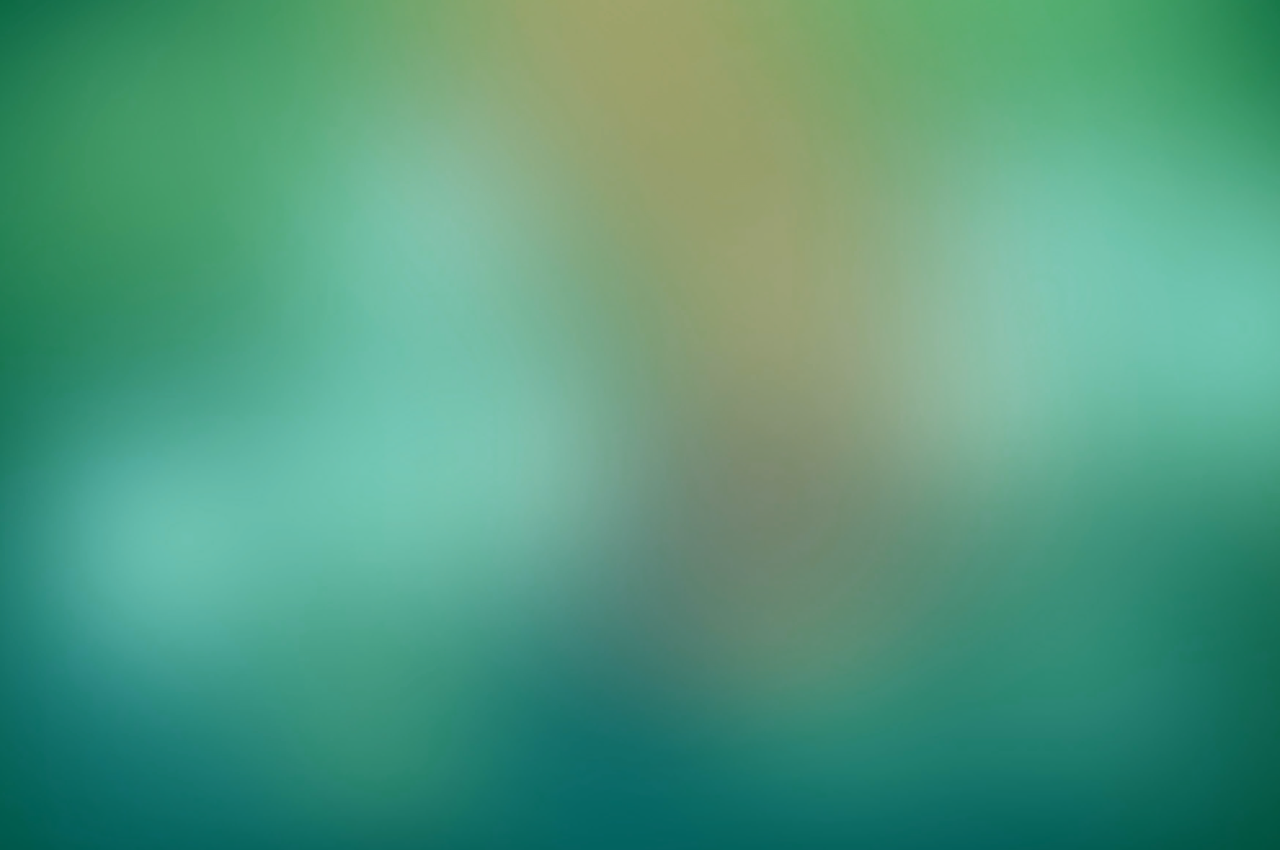
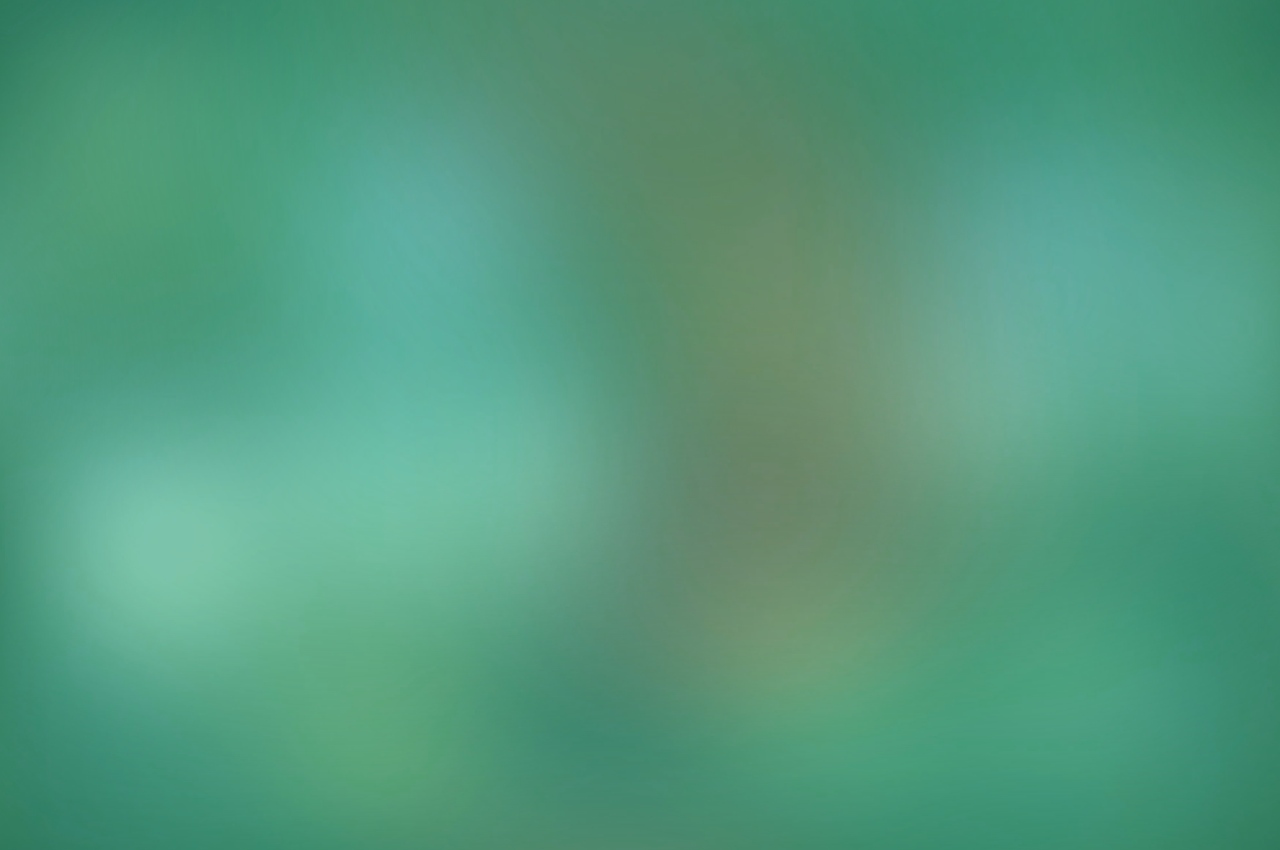
Changed background to the seamless background and added repeat

diff --git a/src/index.css b/src/index.css
@@ -4,5 +4,5 @@ body {
   font-family: 'Roboto', sans-serif;
   background-image: url(/images/background.png);
   background-size: 100vw 100vh;
-  background-repeat: no-repeat;
+  background-repeat: repeat;
 }
